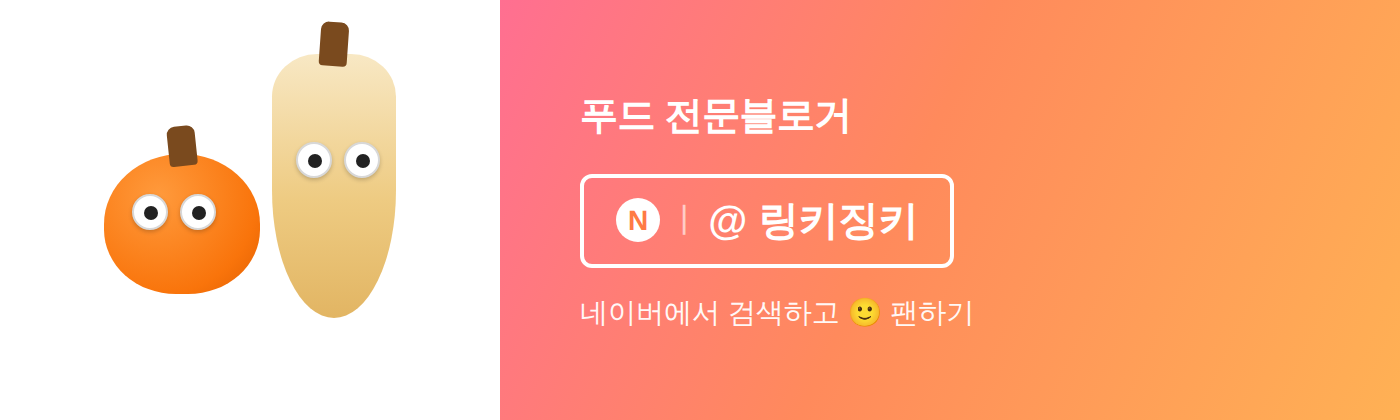
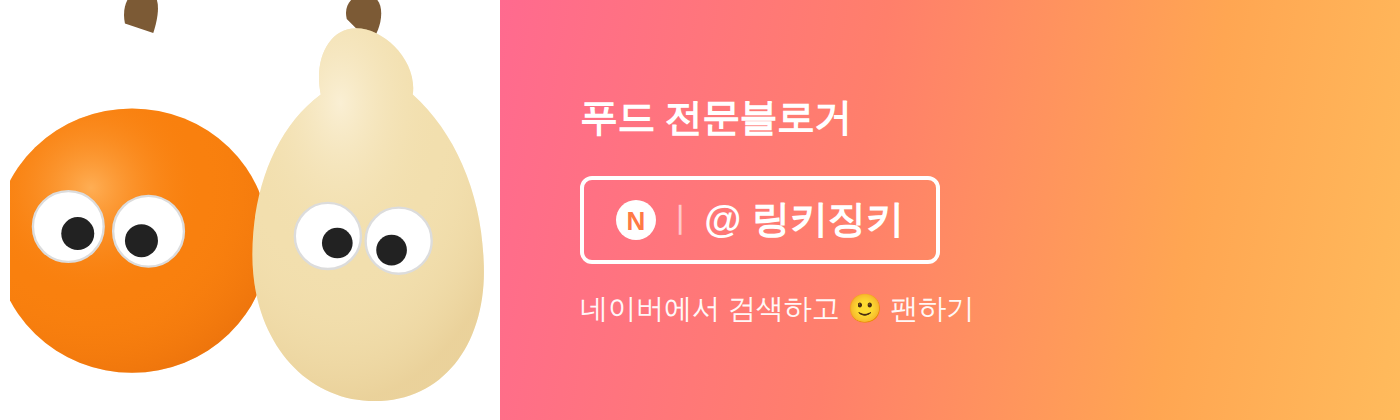
마무리 배너 재현본 v2: SVG 실루엣으로 다시 그림
작성자가 v1이 원본과 많이 다르다고 지적했다. 단호박이 조롱박이
아니라 바나나처럼 보였다. CSS border-radius 근사 대신 SVG 패스로
좁은 목과 볼록한 바닥을 가진 실제 땅콩호박 실루엣을 그렸다.

세로줄 리지를 제거해 매끈하게 만들고, 몸통이 화면 위아래로 꽉 차게
잘리도록 뷰박스를 조정해 원본의 크롭 구도에 가깝게 맞췄다.

여전히 재현품이며 원본 파일은 받지 못했다. 두 번의 첨부 시도 모두
이 세션에 파일 경로가 생성되지 않았다. 업로드 디렉터리와 디스크
전체를 검색했으나 새 파일이 없었다.

Claude-Session: https://claude.ai/code/session_01XFDgRxpFNTBBNKAnwwxeve

diff --git a/assets/banners/place-review-closing-banner.html b/assets/banners/place-review-closing-banner.html
@@ -11,79 +11,91 @@
   }
   .left{
     width:250px; height:210px; background:#ffffff;
-    display:flex; align-items:center; justify-content:center; gap:6px;
-    position:relative;
+    display:flex; align-items:center; justify-content:center;
   }
-  .veg{position:relative;}
-  .pumpkin{
-    width:78px; height:70px; border-radius:50% 50% 46% 46%;
-    background:radial-gradient(circle at 35% 30%, #ff9a3c, #f9740b 70%, #e05e00);
-    position:relative;
-  }
-  .pumpkin::before{ /* stem */
-    content:""; position:absolute; top:-14px; left:50%; transform:translateX(-50%) rotate(-6deg);
-    width:14px; height:20px; background:#7a4a1e; border-radius:4px 4px 2px 2px;
-  }
-  .squash{
-    width:62px; height:132px;
-    background:linear-gradient(180deg,#f8e8c4,#eecb82 55%,#e2b563);
-    border-radius: 45% 45% 62% 62% / 20% 20% 60% 60%;
-    position:relative;
-  }
-  .squash::before{ /* stem */
-    content:""; position:absolute; top:-16px; left:50%; transform:translateX(-50%) rotate(4deg);
-    width:14px; height:22px; background:#7a4a1e; border-radius:4px 4px 2px 2px;
-  }
-  .eyes{
-    position:absolute; display:flex; gap:6px; z-index:5;
-  }
-  .eye{
-    width:16px; height:16px; border-radius:50%; background:#fff;
-    border:1px solid #d8d8d8; display:flex; align-items:center; justify-content:center;
-    box-shadow:0 1px 2px rgba(0,0,0,.2);
-  }
-  .pupil{ width:7px; height:7px; border-radius:50%; background:#222; }
   .right{
     flex:1; height:210px;
-    background:linear-gradient(115deg,#ff6f91 0%, #ff8a5c 45%, #ffb154 100%);
+    background:linear-gradient(100deg,#ff6a8f 0%, #ff7f6b 40%, #ffa652 75%, #ffbb5c 100%);
     display:flex; flex-direction:column; justify-content:center;
     padding:0 40px; color:#ffffff; box-sizing:border-box;
   }
-  .kicker{
-    font-size:19px; font-weight:700; margin-bottom:16px; letter-spacing:-0.3px;
-  }
+  .kicker{ font-size:19px; font-weight:700; margin-bottom:16px; letter-spacing:-0.3px; }
   .badge{
     display:inline-flex; align-items:center; gap:10px;
     border:2px solid #ffffff; border-radius:6px;
-    padding:8px 16px; width:fit-content; margin-bottom:14px;
+    padding:7px 16px; width:fit-content; margin-bottom:14px;
   }
   .nlogo{
-    width:22px; height:22px; border-radius:50%; background:#ffffff;
-    color:#ff7a45; font-weight:900; font-size:14px;
+    width:20px; height:20px; border-radius:50%; background:#ffffff;
+    color:#ff7a45; font-weight:900; font-size:13px;
     display:flex; align-items:center; justify-content:center;
   }
   .sep{ opacity:.6; }
-  .account{ font-size:20px; font-weight:700; }
+  .account{ font-size:19px; font-weight:700; }
   .footer{ font-size:14px; opacity:.95; }
 </style>
 </head>
 <body>
   <div class="banner">
     <div class="left">
-      <div class="veg" style="margin-top:14px;">
-        <div class="eyes" style="top:20px; left:14px;">
-          <div class="eye"><div class="pupil"></div></div>
-          <div class="eye"><div class="pupil"></div></div>
-        </div>
-        <div class="pumpkin"></div>
-      </div>
-      <div class="veg" style="margin-top:-24px;">
-        <div class="eyes" style="top:44px; left:12px;">
-          <div class="eye"><div class="pupil"></div></div>
-          <div class="eye"><div class="pupil"></div></div>
-        </div>
-        <div class="squash"></div>
-      </div>
+      <svg width="240" height="210" viewBox="0 8 230 178" preserveAspectRatio="xMidYMid slice">
+        <!-- pumpkin stem -->
+        <path d="M62,18 C60,8 66,2 72,4 C78,6 76,16 74,22 Z" fill="#7c5a35"/>
+        <!-- pumpkin body -->
+        <ellipse cx="65" cy="110" rx="58" ry="56" fill="#f9800e"/>
+        <ellipse cx="65" cy="110" rx="58" ry="56" fill="url(#pumpkinShade)"/>
+        <!-- pumpkin eyes -->
+        <g transform="translate(38,104)">
+          <circle r="15" fill="#ffffff" stroke="#dcdcdc" stroke-width="1"/>
+          <circle cx="4" cy="3" r="7" fill="#222"/>
+        </g>
+        <g transform="translate(72,106)">
+          <circle r="15" fill="#ffffff" stroke="#dcdcdc" stroke-width="1"/>
+          <circle cx="-3" cy="4" r="7" fill="#222"/>
+        </g>
+
+        <!-- squash stem -->
+        <path d="M156,10 C154,2 162,-3 168,1 C173,5 170,16 166,20 Z" fill="#7c5a35" transform="translate(0,6)"/>
+        <!-- butternut squash body: narrow neck, bulbous bottom -->
+        <path d="M160,20
+                 C148,20 142,34 145,48
+                 C126,62 116,88 116,116
+                 C116,152 138,178 168,178
+                 C198,178 216,152 214,118
+                 C213,90 202,64 184,48
+                 C186,34 172,20 160,20 Z"
+              fill="#f2dfae"/>
+        <path d="M160,20
+                 C148,20 142,34 145,48
+                 C126,62 116,88 116,116
+                 C116,152 138,178 168,178
+                 C198,178 216,152 214,118
+                 C213,90 202,64 184,48
+                 C186,34 172,20 160,20 Z"
+              fill="url(#squashShade)"/>
+        <!-- squash eyes -->
+        <g transform="translate(148,108)">
+          <circle r="14" fill="#ffffff" stroke="#dcdcdc" stroke-width="1"/>
+          <circle cx="4" cy="3" r="6.5" fill="#222"/>
+        </g>
+        <g transform="translate(178,110)">
+          <circle r="14" fill="#ffffff" stroke="#dcdcdc" stroke-width="1"/>
+          <circle cx="-3" cy="4" r="6.5" fill="#222"/>
+        </g>
+
+        <defs>
+          <radialGradient id="pumpkinShade" cx="35%" cy="30%" r="75%">
+            <stop offset="0%" stop-color="#ffb35c" stop-opacity="0.9"/>
+            <stop offset="55%" stop-color="#f9800e" stop-opacity="0"/>
+            <stop offset="100%" stop-color="#d9600a" stop-opacity="0.35"/>
+          </radialGradient>
+          <radialGradient id="squashShade" cx="38%" cy="20%" r="80%">
+            <stop offset="0%" stop-color="#fbf1d8" stop-opacity="0.9"/>
+            <stop offset="55%" stop-color="#f2dfae" stop-opacity="0"/>
+            <stop offset="100%" stop-color="#dcb977" stop-opacity="0.35"/>
+          </radialGradient>
+        </defs>
+      </svg>
     </div>
     <div class="right">
       <div class="kicker">푸드 전문블로거</div>
